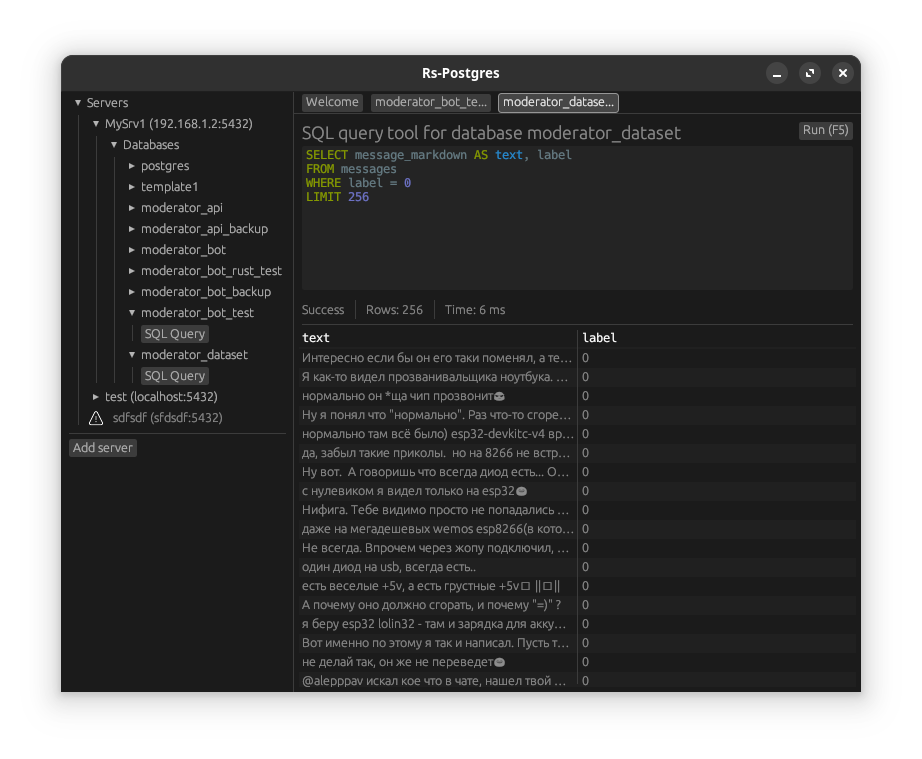
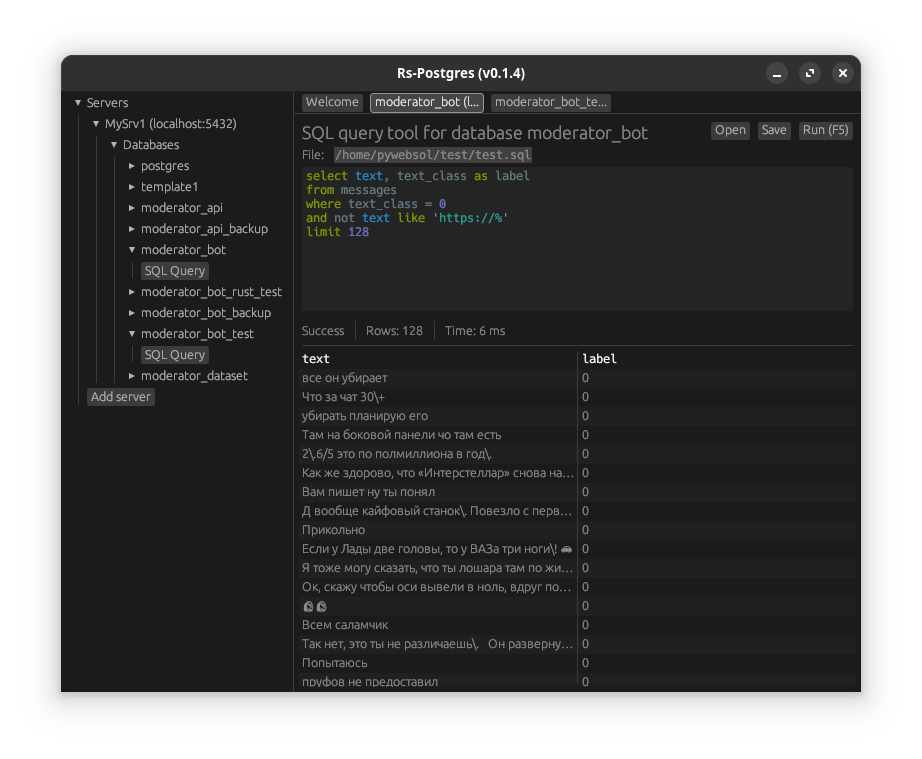
Bump version to 0.1.4, add file dialog functionality, and update README
- Updated the version in `Cargo.toml` from 0.1.3 to 0.1.4 to reflect recent changes.
- Added the `egui-file-dialog` dependency in `Cargo.toml` to support file dialog functionality for opening and saving SQL scripts.
- Enhanced the `SQLQueryPage` struct in `structs.rs` to include an optional `code_file_path` field for tracking the file path of the SQL code.
- Implemented file saving and opening functionality in `mod.rs`, allowing users to save their SQL queries to a file and open existing files.
- Updated the README.md to reflect the completion of the SQL scripts opening and saving feature in the roadmap.

This commit improves the application's functionality by enabling file handling for SQL scripts, enhancing user experience and code management.

diff --git a/src/frames/mod.rs b/src/frames/mod.rs
@@ -11,12 +11,16 @@ use egui::{
     Key,
 };
 use egui_extras::{TableBuilder, Column};
+use egui_file_dialog::FileDialog;
 use log::{info, error};
 use std::fs as std_fs;
 use std::collections::HashMap;
+use std::io::Read;
+use std::io::Write;
 use std::sync::{Arc, Mutex};
 use std::time::Instant;
 use crate::utils::{encrypt_string, decrypt_string};
+use std::fs::File;
 
 struct DbManager {
     dbs: Arc<Mutex<HashMap<String, structs::DbState>>>,
@@ -34,6 +38,8 @@ pub struct Main<'a> {
     pages: structs::Pages,
     actions: Vec<structs::Action>,
     password: Option<String>,
+    select_file_dialog: FileDialog,
+    select_file_dialog_action: Option<structs::SelectFileDialogAction>,
 }
 
 impl Main<'_> {
@@ -60,6 +66,8 @@ impl Main<'_> {
             pages: structs::Pages::default(),
             actions: Vec::new(),
             password: None,
+            select_file_dialog: FileDialog::new(),
+            select_file_dialog_action: None,
         };
 
         main.load_config();
@@ -185,6 +193,15 @@ impl Main<'_> {
             let mut sql_query_execution_status = sql_query_execution_status.lock().unwrap();
             *sql_query_execution_status = execution_status;
         }
+    }
+
+    fn save_code(sqlquery_page: &mut structs::SQLQueryPage) {
+        if !sqlquery_page.code.ends_with("\n") {
+            sqlquery_page.code = format!("{}\n", sqlquery_page.code);
+        }
+
+        let mut file = File::create(sqlquery_page.code_file_path.as_ref().unwrap()).unwrap();
+        file.write_all(sqlquery_page.code.as_bytes()).unwrap();
     }
 
     fn update_windows(&mut self, ctx: &egui::Context, _frame: &mut eframe::Frame) {
@@ -476,7 +493,6 @@ impl Main<'_> {
                             ui.vertical(|ui| {
                                 ui.horizontal(|ui| {
                                     ui.heading(format!("SQL query tool for database {}", sqlquery_page.name));
-
                                     ui.with_layout(Layout::right_to_left(Align::Min), |ui| {
                                         let code_is_empty = sqlquery_page.code.is_empty();
 
@@ -493,8 +509,61 @@ impl Main<'_> {
                                                 Self::fetch_sql_query(database_clone, &code_clone, sql_query_execution_status).await;
                                             });
                                         }
+
+                                        if ui.add_enabled(!code_is_empty, Button::new("Save")).clicked() || (ui.input(|i| i.modifiers.ctrl && i.key_pressed(Key::S)) && !code_is_empty) {
+                                            if sqlquery_page.code_file_path.is_some() {
+                                                Self::save_code(sqlquery_page);
+                                            } else {
+                                                self.select_file_dialog_action = Some(structs::SelectFileDialogAction::SaveFile);
+                                                self.select_file_dialog.save_file();
+                                            }
+                                        }
+                                        if ui.button("Open").clicked() || (ui.input(|i| i.modifiers.ctrl && i.key_pressed(Key::O))) {
+                                            self.select_file_dialog_action = Some(structs::SelectFileDialogAction::OpenFile);
+                                            self.select_file_dialog.pick_file();
+                                        }
+
+                                        self.select_file_dialog.update(ctx);
+
+                                        if let Some(action) = &self.select_file_dialog_action {
+                                            match action {
+                                                structs::SelectFileDialogAction::SaveFile => {
+                                                    if let Some(code_file_path) = self.select_file_dialog.take_picked() {
+                                                        self.select_file_dialog_action = None;
+
+                                                        sqlquery_page.code_file_path = Some(code_file_path.to_string_lossy().to_string());
+
+                                                        Self::save_code(sqlquery_page);
+                                                    }
+                                                },
+                                                structs::SelectFileDialogAction::OpenFile => {
+                                                    if let Some(code_file_path) = self.select_file_dialog.take_picked() {
+                                                        self.select_file_dialog_action = None;
+
+                                                        sqlquery_page.code_file_path = Some(code_file_path.to_string_lossy().to_string());
+
+                                                        match File::open(code_file_path) {
+                                                            Ok(mut file) => {
+                                                                let mut file_content = String::new();
+                                                                let _ = file.read_to_string(&mut file_content);
+                                                                
+                                                                sqlquery_page.code = file_content;
+                                                            },
+                                                            Err(_) => {},
+                                                        }
+                                                    }
+                                                },
+                                            }
+                                        }
                                     });
                                 });
+
+                                if let Some(code_file_path) = &sqlquery_page.code_file_path {
+                                    ui.horizontal(|ui| {
+                                        ui.label("File: ");
+                                        ui.label(RichText::new(code_file_path).code().background_color(Color32::DARK_GRAY));
+                                    });
+                                }
 
                                 let mut theme = egui_extras::syntax_highlighting::CodeTheme::light(12.0);
 
@@ -793,6 +862,7 @@ impl App for Main<'_> {
                                                                     name: database.name.clone(),
                                                                     database: database.database.clone(),
                                                                     code: String::new(),
+                                                                    code_file_path: None,
                                                                     sql_query_execution_status: None,
                                                                 }),
                                                             });

diff --git a/src/data/structs.rs b/src/data/structs.rs
@@ -147,6 +147,7 @@ pub struct SQLQueryPage {
     pub name: String,
     pub database: crate::database::Database,
     pub code: String,
+    pub code_file_path: Option<String>,
     pub sql_query_execution_status: Option<Arc<Mutex<SQLQueryExecutionStatusType>>>,
 }
 
@@ -189,4 +190,10 @@ impl Default for Pages {
 #[derive(Clone)]
 pub enum Action {
     ClosePage(usize),
+}
+
+#[derive(Clone)]
+pub enum SelectFileDialogAction {
+    SaveFile,
+    OpenFile,
 }

diff --git a/README.md b/README.md
@@ -65,7 +65,7 @@ cargo run -- --debug
 ```
 
 ## Roadmap 🗺
-- [ ] SQL scripts opening and saving
+- [x] SQL scripts opening and saving
 - [ ] Creating new databases and tables in the connection tree
 - [ ] Connection health monitoring
 - [x] Query execution time tracking
